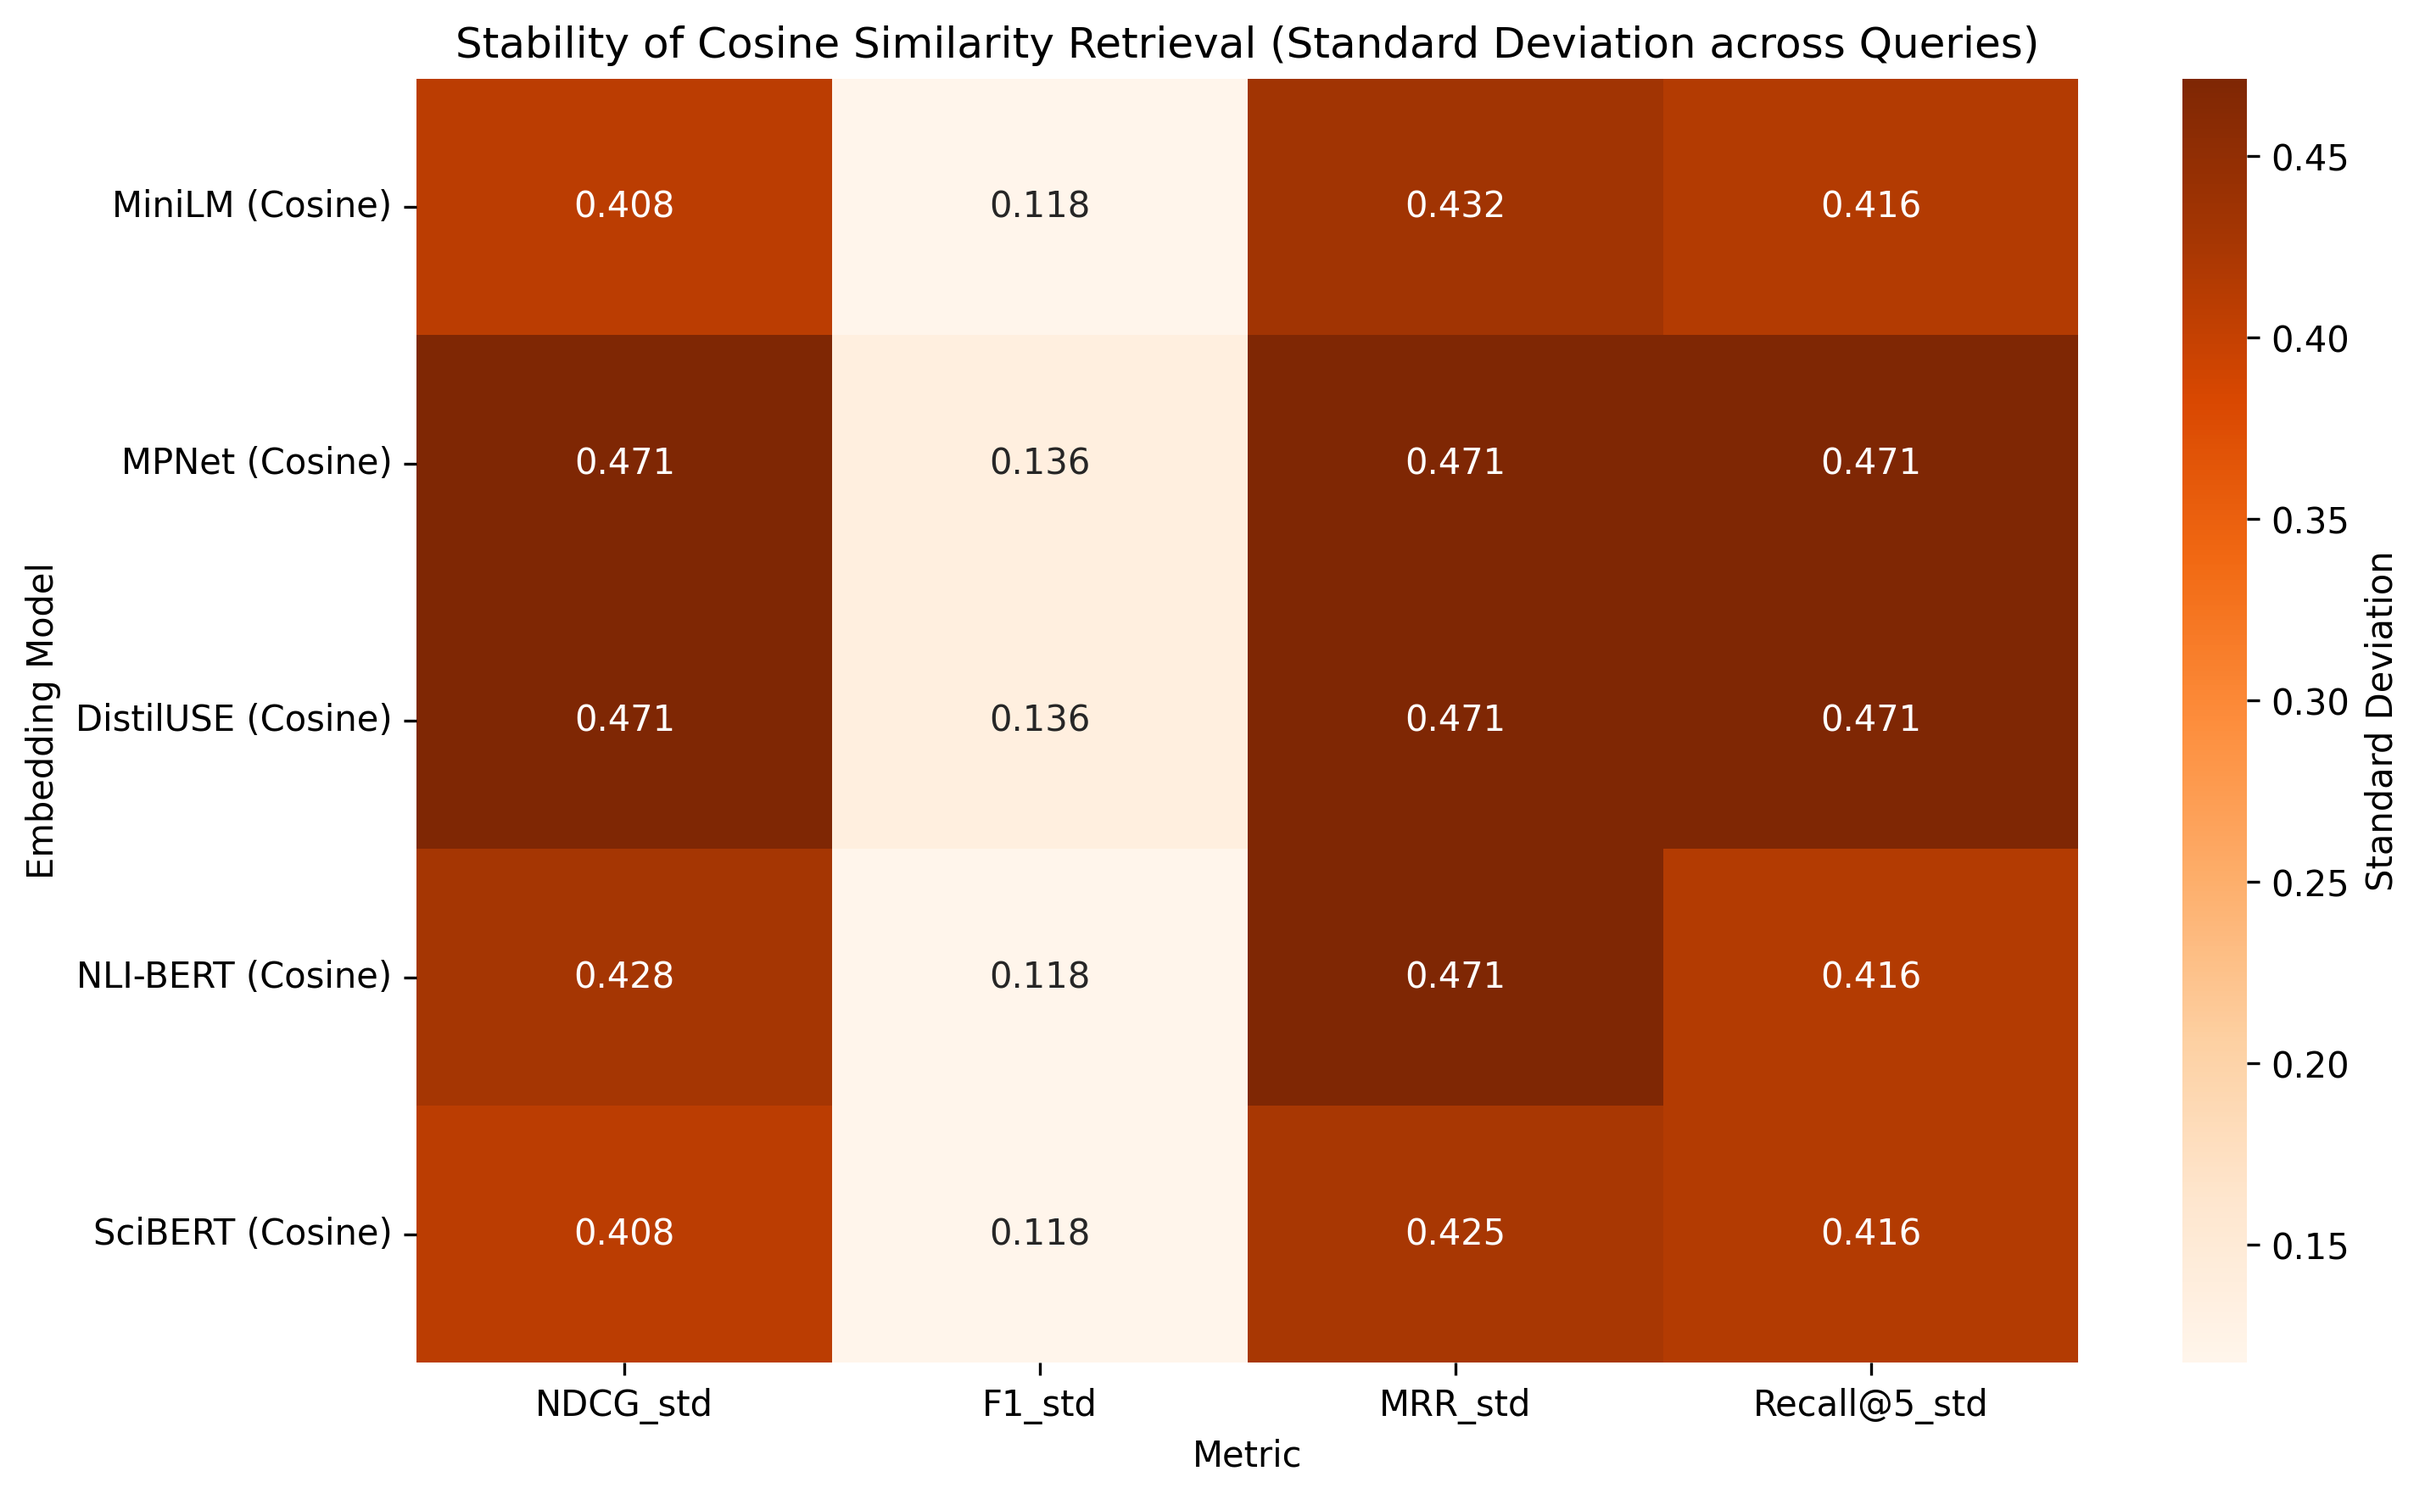
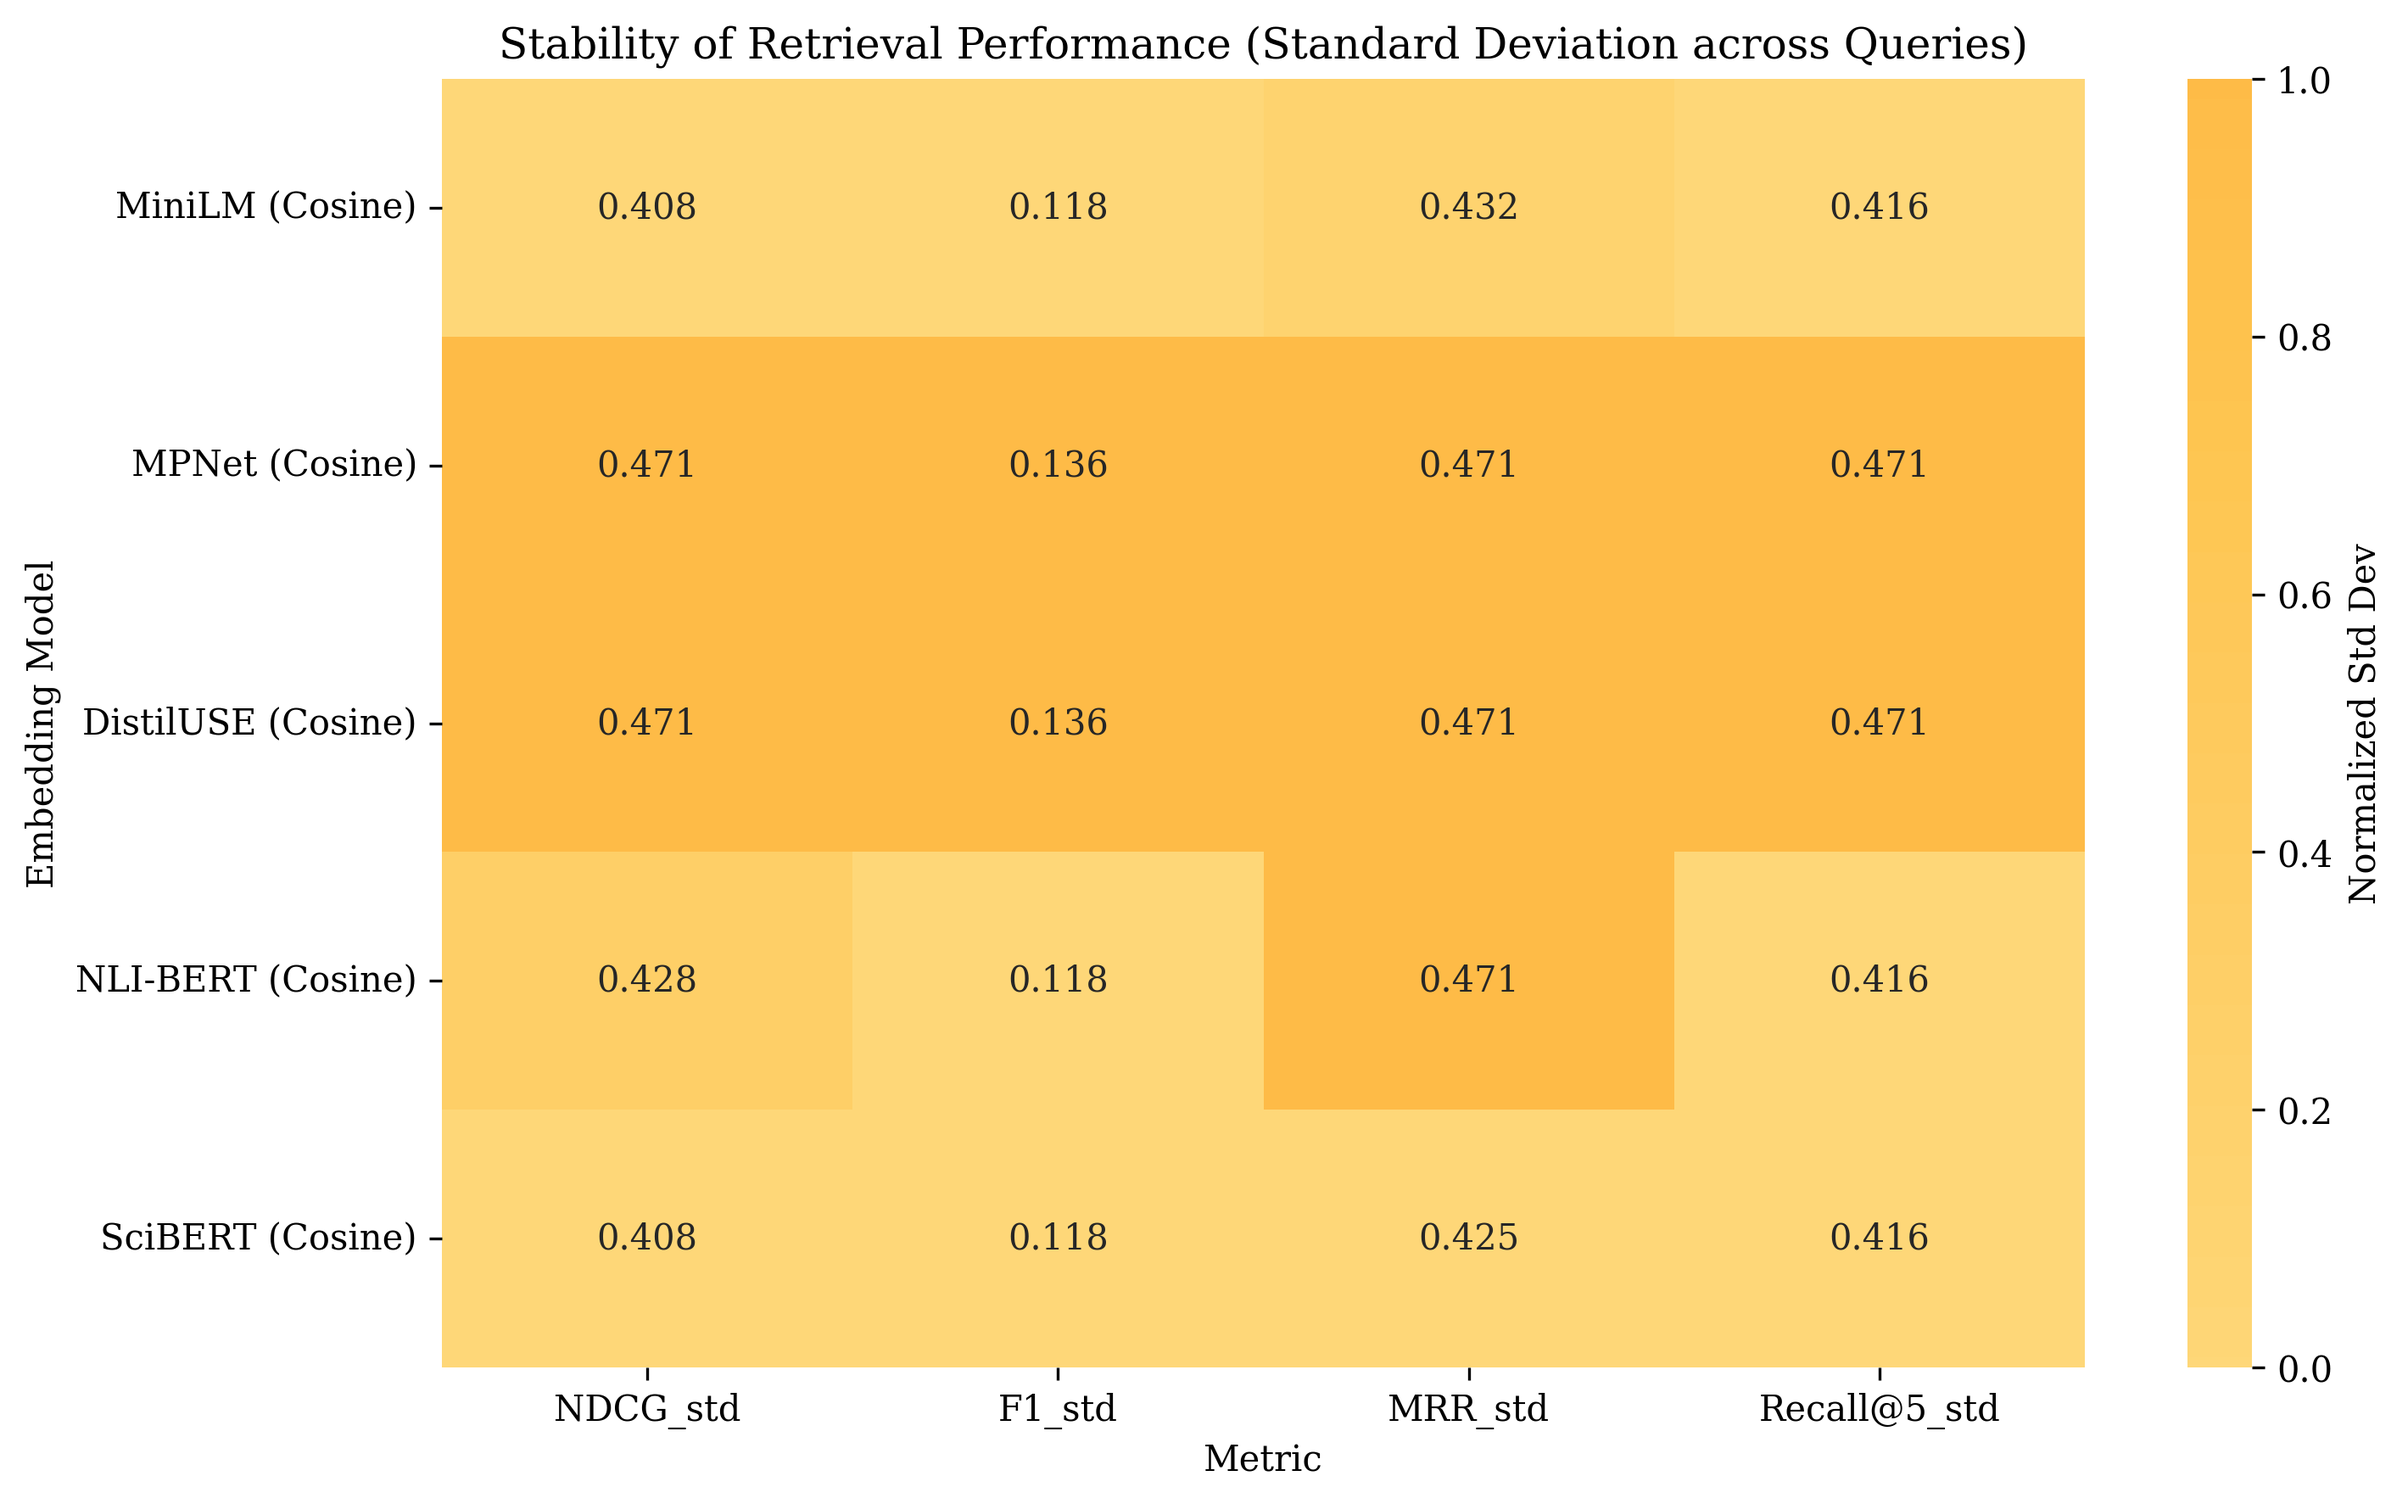
made changes for the visuals for poster usage

diff --git a/src/testing/comparison/heat_map.py b/src/testing/comparison/heat_map.py
@@ -1,6 +1,12 @@
 import pandas as pd
+import numpy as np
 import seaborn as sns
 import matplotlib.pyplot as plt
+import matplotlib as mpl
+from matplotlib import cm
+from matplotlib.colors import ListedColormap
+
+mpl.rcParams['font.family'] = 'serif'
 
 df = pd.read_csv("embeddings_all_metrics.csv")
 
@@ -13,10 +19,15 @@ df["label"] = df["model"] + " (" + df["similarity"] + ")"
 # Extract std dev columns and set the model label as index
 std_df = df.set_index("label")[["NDCG_std", "F1_std", "MRR_std", "Recall@5_std"]] # excluded time
 
+normalized_df = (std_df - std_df.min()) / (std_df.max() - std_df.min())
+
+original = cm.get_cmap("YlOrBr")
+flattened = ListedColormap(original(np.linspace(0.3, 0.4, 512))) # smoother color transition
+
 # Plot: Models on Y-axis, metrics on X-axis
 plt.figure(figsize=(10, 6))
-sns.heatmap(std_df, annot=True, fmt=".3f", cmap="Oranges", cbar_kws={'label': 'Standard Deviation'})
-plt.title("Stability of Cosine Similarity Retrieval (Standard Deviation across Queries)")
+sns.heatmap(normalized_df, annot=std_df, fmt=".3f", cmap=flattened, cbar_kws={'label': 'Normalized Std Dev'})
+plt.title("Stability of Retrieval Performance (Standard Deviation across Queries)")
 plt.ylabel("Embedding Model")
 plt.xlabel("Metric")
 plt.tight_layout()

diff --git a/src/testing/comparison/bar_graph.py b/src/testing/comparison/bar_graph.py
@@ -1,6 +1,9 @@
 import pandas as pd
 import matplotlib.pyplot as plt
+import matplotlib as mpl
 import numpy as np
+
+mpl.rcParams['font.family'] = 'serif'
 
 # Load CSV
 df = pd.read_csv("embeddings_all_metrics.csv")
@@ -16,7 +19,7 @@ fig, axes = plt.subplots(nrows=3, ncols=2, figsize=(16, 12))
 axes = axes.flatten()
 
 for i, metric in enumerate(metrics):
-    ax = axes[i]
+    ax = axes[i+1]
     models = df["model"].unique()
     x = np.arange(len(models))
     width = 0.35
@@ -35,9 +38,14 @@ for i, metric in enumerate(metrics):
     ax.grid(True, linestyle="--", alpha=0.5)
     ax.legend()
 
-# Hide last subplot if not used
-if len(metrics) < len(axes):
-    axes[-1].axis("off")
+key_ax = axes[0]
+key_ax.axis("off")
+key_ax.text(0, 1.0, "Metric Key", fontsize=15, fontweight="bold")
+key_ax.text(0, 0.85, "F1-score:     Balance Precision and Recall", fontsize=12)
+key_ax.text(0, 0.70, "NDCG:        Ranked Relevance Quality", fontsize=12)
+key_ax.text(0, 0.55, "Recall@5:   Top-5 Result Coverage", fontsize=12)
+key_ax.text(0, 0.40, "MRR:          First Relevant Answer Ranking", fontsize=12)
+key_ax.text(0, 0.25, "Time:          Processing Speed and Efficiency", fontsize=12)
 
 plt.tight_layout()
 plt.savefig("bar_graph.png", dpi=300, bbox_inches='tight')
